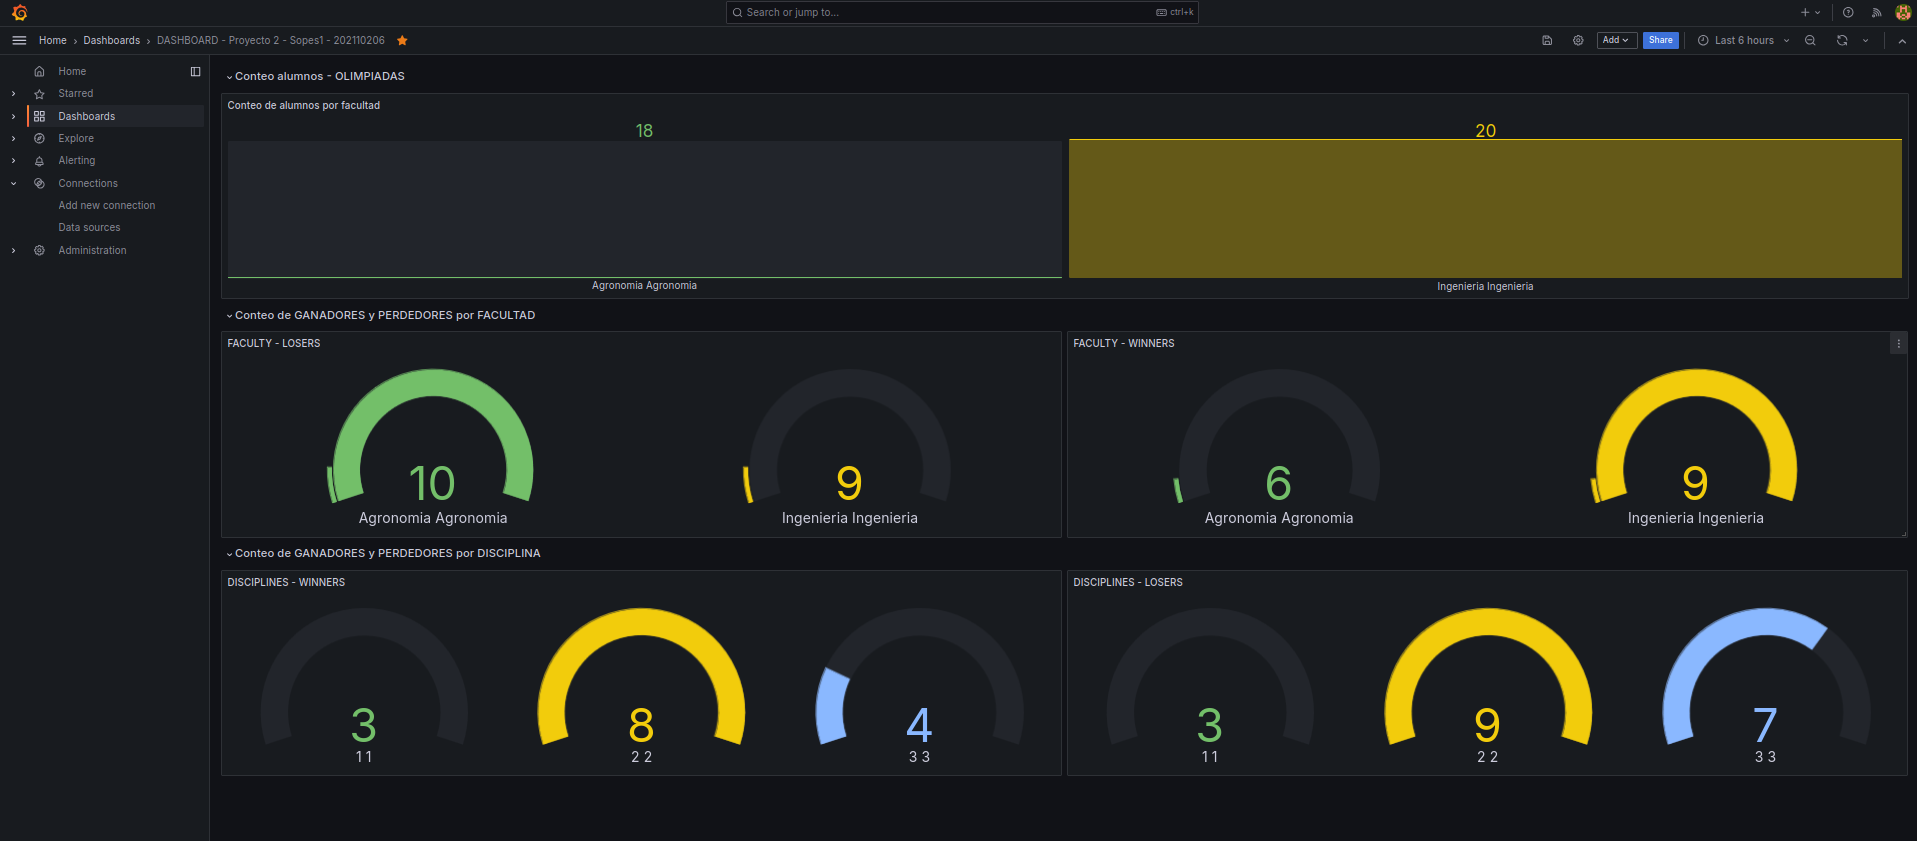
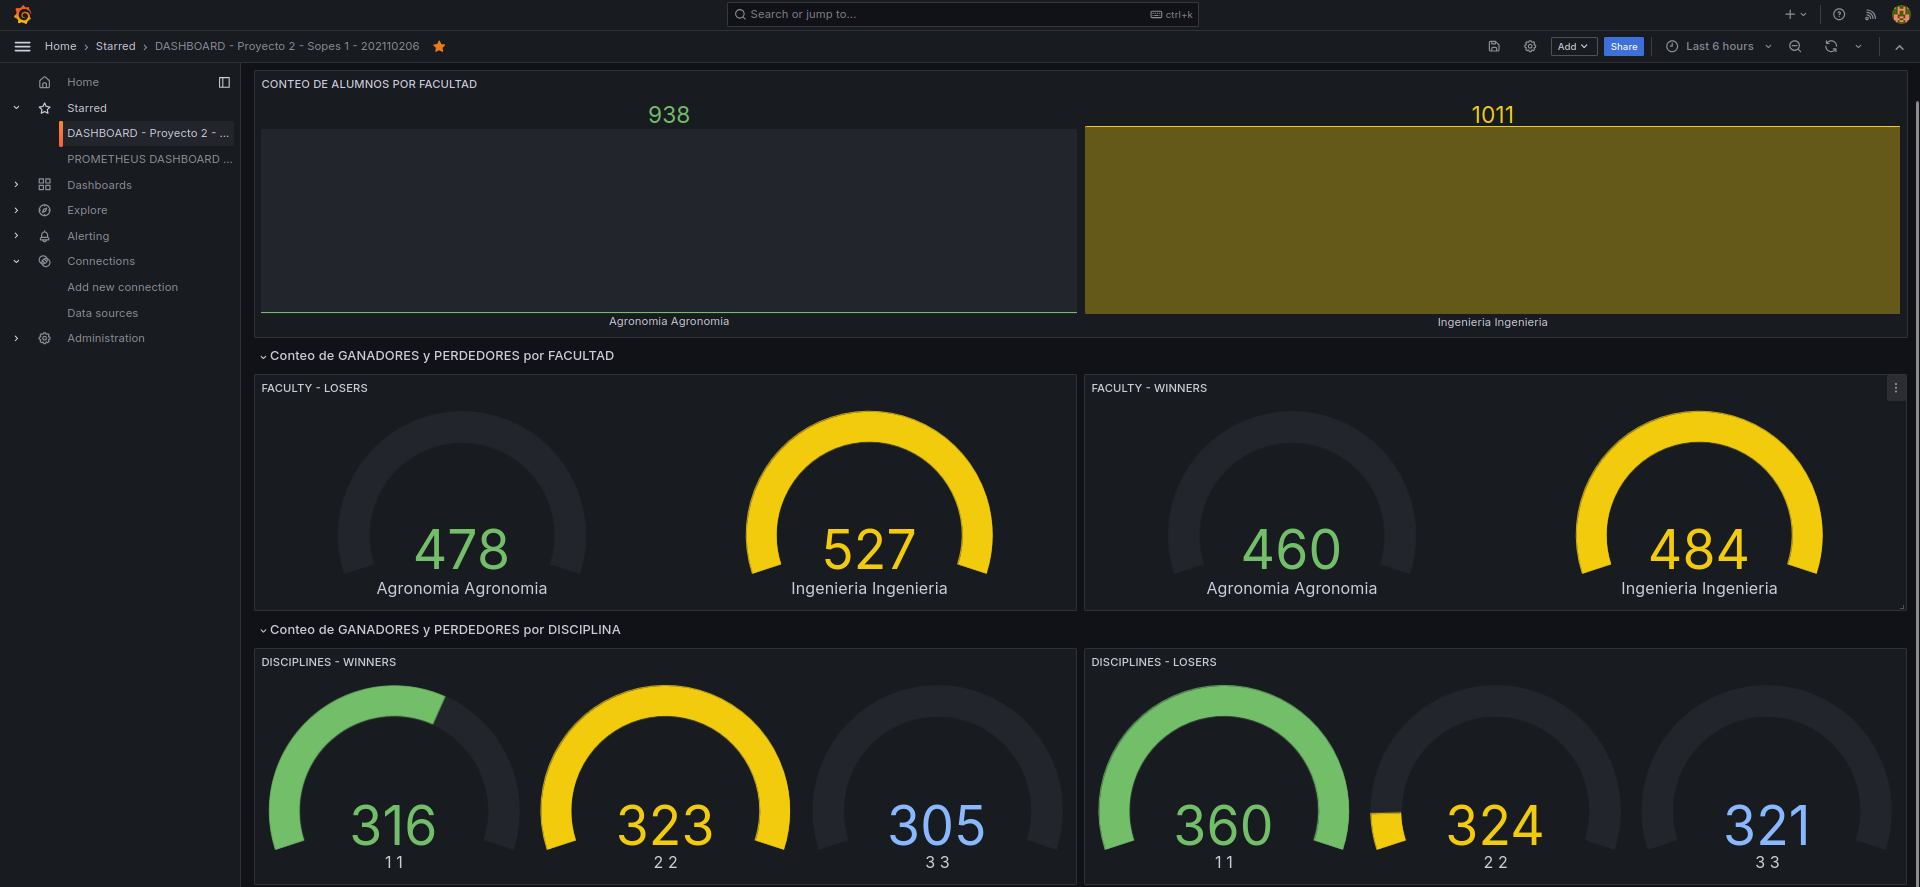
Se sube ultima version de documentacion, grafana y prometheus

diff --git a/Proyecto2/README.md b/Proyecto2/README.md
@@ -37,6 +37,20 @@ Se configuran reglas de firewall para habilitar tráfico externo de entrada y de
 
 ![alt text](./Images/firewall.png)
 
+* **ALLIN**
+
+<div align="center">
+<img src=./Images/in.png width=350>
+</div>
+
+
+* **ALLOUT**
+
+<div align="center">
+<img src=./Images/out.png width=350>
+</div>
+
+
 Comando para crear cluster:
 
 ```bash
@@ -92,10 +106,12 @@ Permite la entrada de tráfico, mediante Locust, que publicará automaticamente,
 2. "/ingenieria"
 
 <div align="center">
-<img src=./Locust/image.png width=450>
+<img src=./Locust/locust.png width=450>
 </div>
 
-Usar NGINX controller con Helm: 
+Usar NGINX controller con Helm.
+
+Se instala HELM localmente:
 
 ```bash
 curl https://baltocdn.com/helm/signing.asc | gpg --dearmor | sudo tee /usr/share/keyrings/helm.gpg > /dev/null
@@ -314,12 +330,65 @@ http://35.226.117.187:32425
 PROMETHEUS:
 http://35.226.117.187:32519
 
-#### VISUALIZACION
+____
+
+### Conectarse a Redis en Grafana
+
+Ya habiendo iniciado sesión en Grafana, uno puedo conectarse, accediendo en las opciones de new connection, hay que agregar a Redis. (Instalar si no se tiene y luego se tiene que añadir un nuevo data source.)
+
+<div align="center">
+<img src=./Images/add.png width=550>
+</div>
+
+
+Al crear un nuevo Data Source, se debe de ingresar la dirección de redis y su contraseña (esta se encuentra en el cluster, en este caso sería:)
+
+Address: redis-db-master.sopes1.svc.cluster.local:6379
+Password: XKcuMbTOcn
+
+<div align="center">
+<img src=./Images/redisf.png width=650>
+</div>
+
+Ya se tiene conectado a la base de datos de Redis, y ya se podrán construir consultas para crear visualizaciones.
+
+<div align="center">
+<img src=./Images/conn.png width=650>
+</div>
+
+Se pueden crear queries en Grafana y se puede obtener la información almacenada en la base de datos de Redis:
+
+Por ejemplo para obtener un contador creado en Redis:
+
+- HGET "nombre_contador" "valor"
+
+En este caso se tiene un contador que se crea desde los consumers; y se puede obtener la informacion del conteo de estudiantes por facultad; en este caso en Grafana se hace el query de la siguiente forma:
+
+- HGET "new_faculty_count" "Agronomia"
+- HGET "new_faculty_count" "Ingenieria" 
+
+Se obtendrían los contadores tanto para Agronomia como para Ingenieria.
+
+![alt text](./Images/query.png)
+
+____
+
+#### VISUALIZACION FINAL 
 
 **Grafana:**
+
+Esta sería la visualización final del dashboard creado para el Sistema de OLIMPIADAS USAC; se puede observar:
+
+- Conteo de alumnos por facultad.
+- Conteo de ganadores y perdedores por facultad.
+- Conteo de ganadores y perdedores por disciplina.
 
 ![alt text](./Images/graph1.png)
 
 **Prometheus:**
+
+Con Prometheus se pueden utilizar templates creados en la comunidad, en este caso se utilizó el siguiente, para poder visualizar y monitorizar el rendimiento del cpu, memoria y trafico de red, en cada nodo del clúster de kubernetes.
+
+https://grafana.com/grafana/dashboards/1860-node-exporter-full/
 
 ![alt text](./Images/graph2.png)

diff --git a/Proyecto2/Locust/README.md b/Proyecto2/Locust/README.md
@@ -1,7 +1,8 @@
-#### Locust 
+### <div align="center">LOCUST</div>
+
 Es una herramienta open source para HTTP y otros protocolos. Permite hacer testeos de carga de datos en lenguaje Python.
 
 En este caso para el proyecto servirá para ingresar datos de forma automática para poder testear los contenedores, que forman parte del proyecto de olimpiadas.
 
-![alt text](image.png)
+![alt text](locust.png)
 
